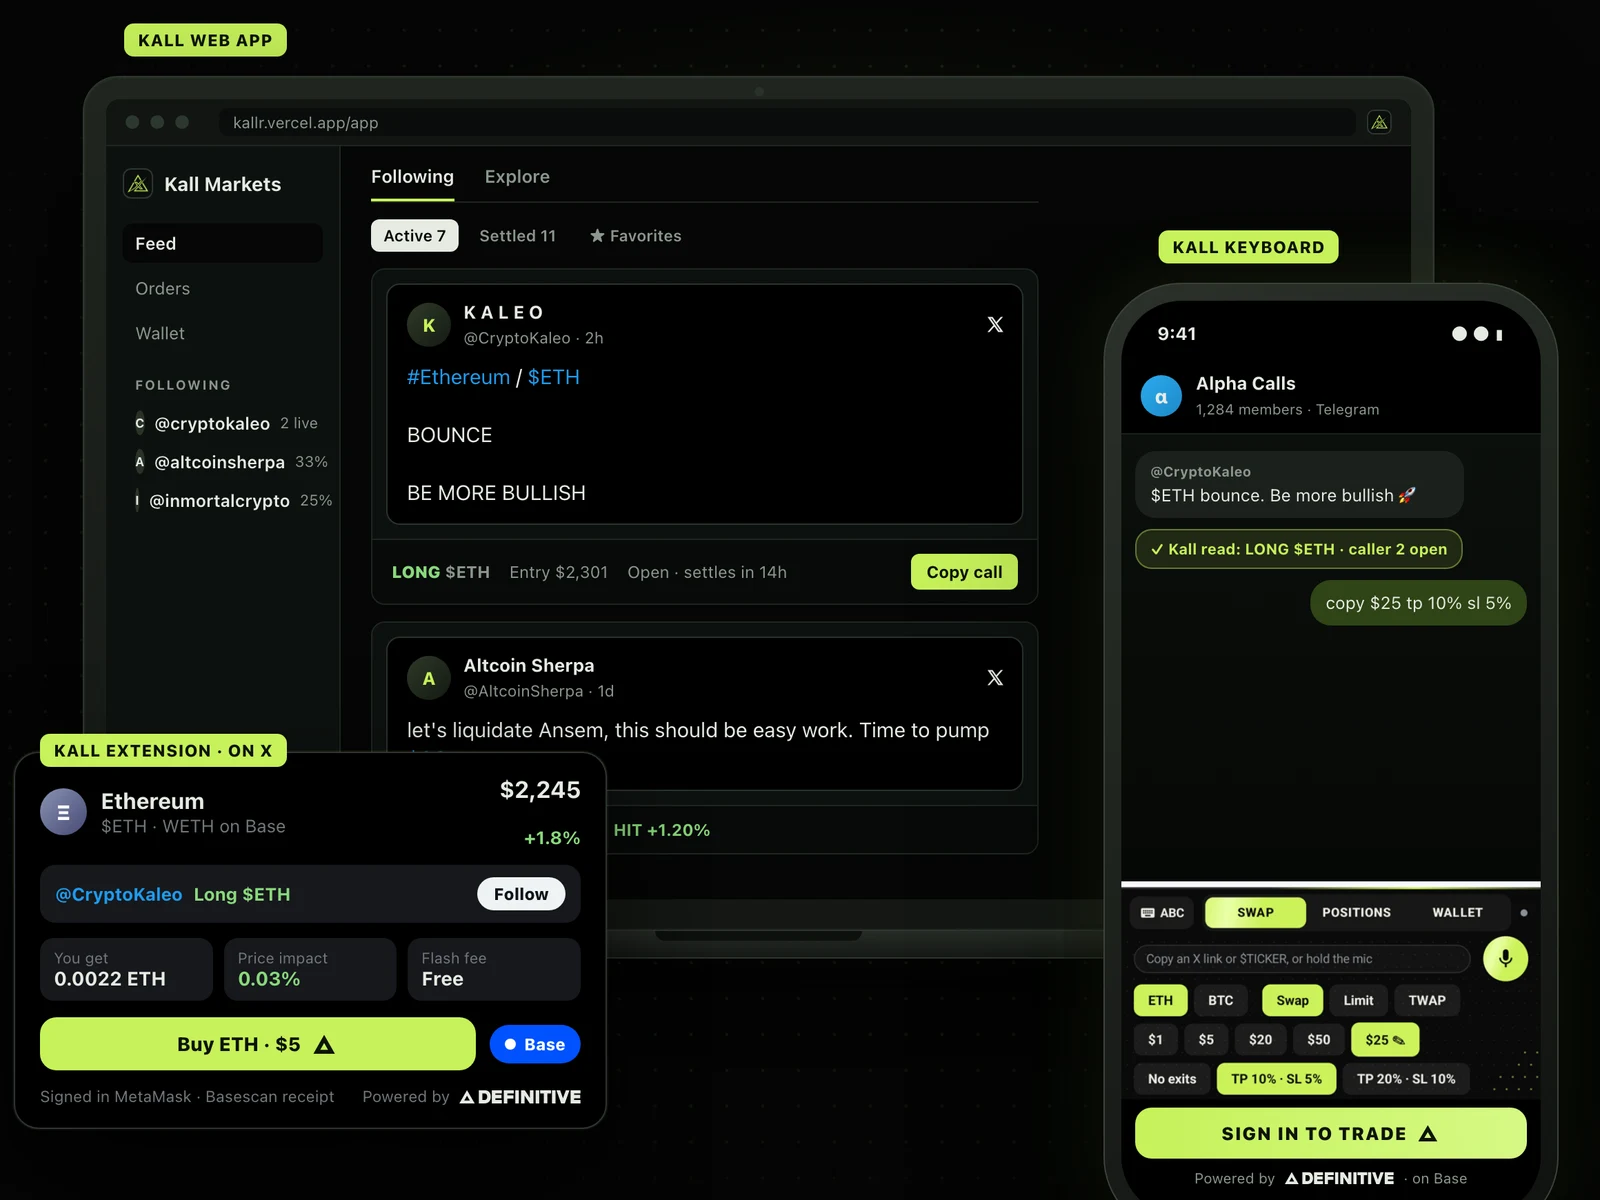
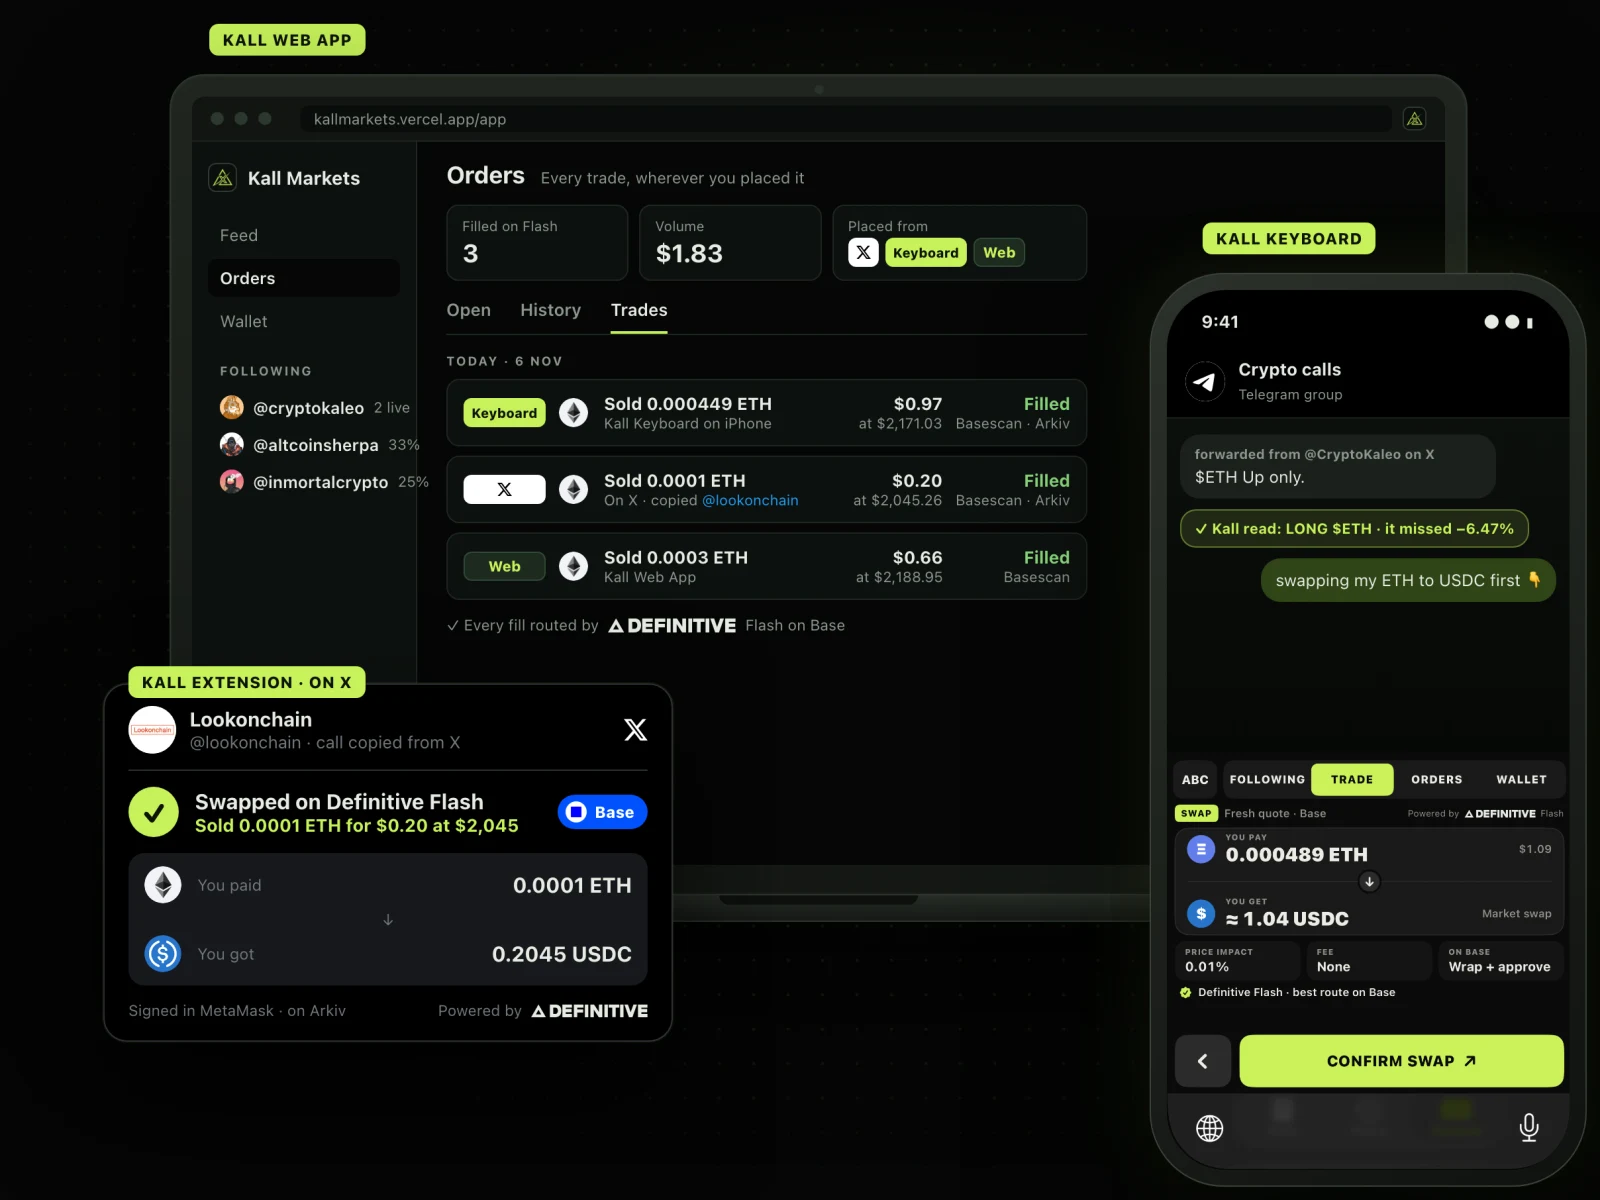
Landing hero and share image use the new cover
The hero's devices image is cut from the new cover (real trades, real logos), and og.png is
the new cover; its title and description use the current slogan instead of the old
"after market" line and kallr.vercel.app.

Changed region(s): [[0.0, 0.0, 1.0, 1.0], [0.5312, 0.185, 0.6562, 0.2467], [0.375, 0.185, 0.4688, 0.2467]]

diff --git a/kallr-webapp/app/layout.tsx b/kallr-webapp/app/layout.tsx
@@ -16,14 +16,14 @@ export const metadata: Metadata = {
   openGraph: {
     type: "website",
     siteName: "Kall Markets",
-    title: "Kall Markets: every call on X has an after market",
-    description: "Priced at posting. Copy it with take-profit and stop-loss on Base.",
+    title: "Kall Markets: Don’t trust. Check the caller. Trade it.",
+    description: "Every crypto call priced, scored and kept on Arkiv, then traded in one tap on Definitive Flash.",
     images: [{ url: "/brand/og.png", width: 1200, height: 630, alt: "Kall Markets" }],
   },
   twitter: {
     card: "summary_large_image",
-    title: "Kall Markets: every call on X has an after market",
-    description: "Priced at posting. Copy it with take-profit and stop-loss on Base.",
+    title: "Kall Markets: Don’t trust. Check the caller. Trade it.",
+    description: "Every crypto call priced, scored and kept on Arkiv, then traded in one tap on Definitive Flash.",
     images: ["/brand/og.png"],
   },
   appleWebApp: { capable: true, title: "Kall Markets", statusBarStyle: "default" },
